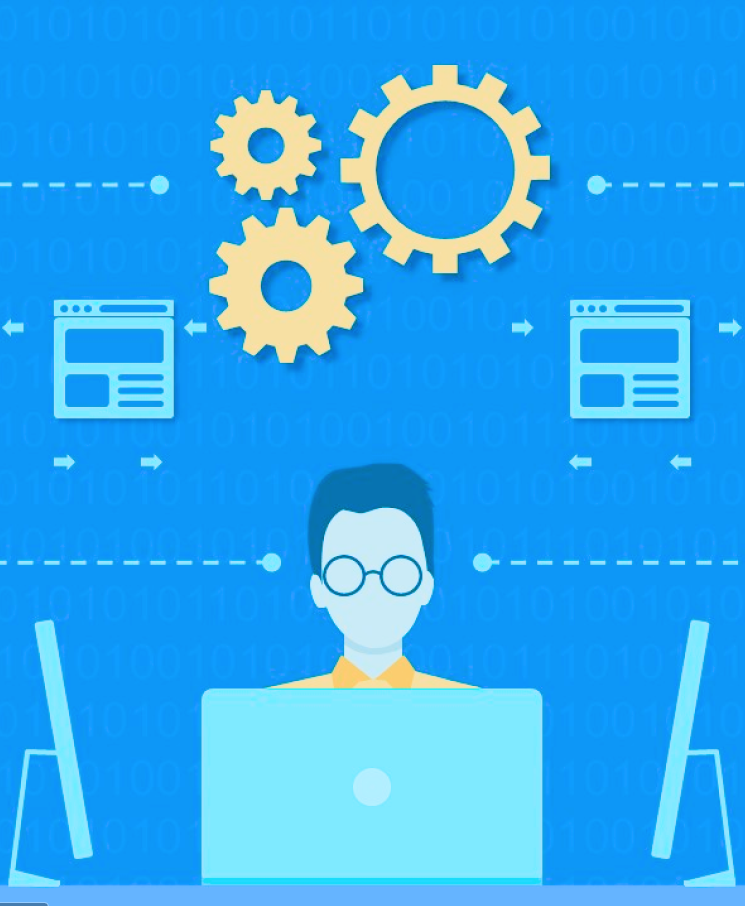
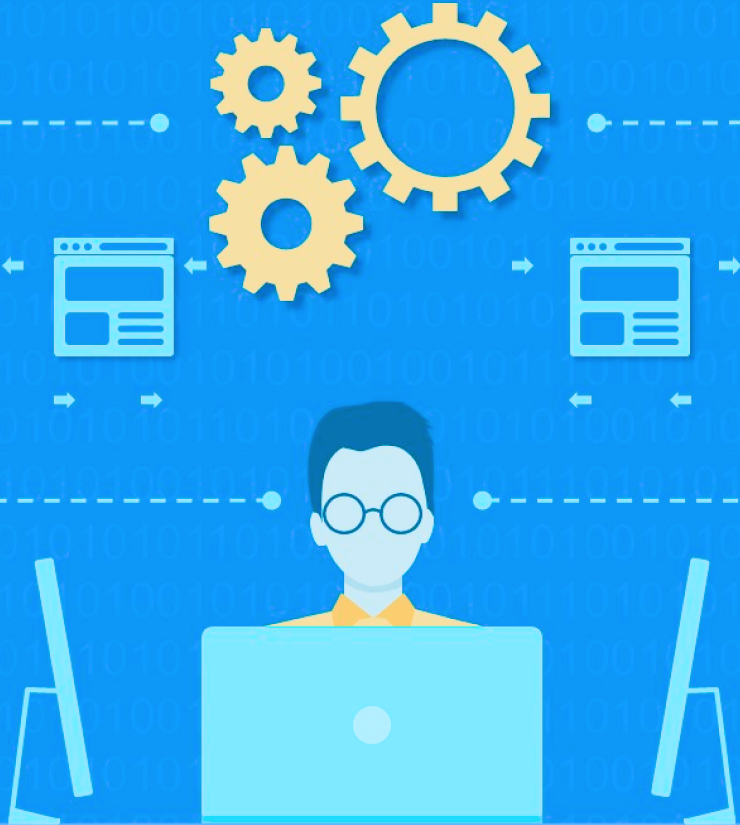
pic issue fixed - AR

diff --git a/css/signup.css b/css/signup.css
@@ -60,7 +60,6 @@ input[type="text"], input[type="password"], input[type="email"] {
   padding-bottom: 30px;
   border: none;
   background-color: #ECECEC;
-  
 }
 
 .place-holder .logo{

diff --git a/signup.php b/signup.php
@@ -15,7 +15,7 @@
 <body>
   <section class="content">
     <div class="img-container">
-      <img src="/img/img3.png" alt="">
+      <img src="img/img3.png" alt="">
     </div>
     <div class="login-container">
       <div class="login-form">
@@ -25,66 +25,66 @@
           <div class="container">
             <div class="place-holder">
               <div class="logo">
-                <img src="/img/person_avatar_account_user_icon_191606.png" alt="">
+                <img src="img/person_avatar_account_user_icon_191606.png" alt="">
               </div>
               <div>
                 <label for="fullname"><b>Full Name</b></label><br>
                 <!-- fullname -->
-                <input type="text" placeholder="" name="fullname" required>
+                <input type="text" placeholder="enter your full name" name="fullname" required>
               </div>
               
             </div>
             <div class="place-holder">
               <div class="logo">
-                <img src="/img/person_avatar_account_user_icon_191606.png" alt="">
+                <img src="img/person_avatar_account_user_icon_191606.png" alt="">
               </div>
               <div>
                 <label for="username"><b>Username</b></label><br>
                 <!-- username -->
-                <input type="text" placeholder="" name="username" required>
+                <input type="text" placeholder="enter your user-name" name="username" required>
               </div>
               
             </div>
             <div class="place-holder">
               <div class="logo">
-                <img src="/img/key_security_icon_195229.png" alt="" class="key">
+                <img src="img/key_security_icon_195229.png" alt="" class="key">
               </div>
               <div>
                 <label for="password"><b>Password</b></label><br>
                 <!-- password -->
-                <input type="password" placeholder="" name="password" required>
+                <input type="password" placeholder="enter your password" name="password" required>
               </div>
             </div>
             <div class="place-holder">
               <div class="logo">
-                <img src="/img/1904660-email-envelope-letter-mail-message-post-send_122510.png" alt="">
+                <img src="img/1904660-email-envelope-letter-mail-message-post-send_122510.png" alt="">
               </div>
               <div>
                 <label for="mail"><b>Email</b></label><br>
                 <!-- mail -->
-                <input type="email" placeholder="" name="mail" required>
+                <input type="email" placeholder="example@mail.com" name="mail" required>
               </div>
               
             </div>
             <div class="place-holder">
               <div class="logo">
-                <img src="/img/age_theapplication_3019.png" alt="">
+                <img src="img/age_theapplication_3019.png" alt="">
               </div>
               <div>
                 <label for="uage"><b>Age</b></label><br>
                 <!-- age -->
-                <input type="text" placeholder="" name="age" required>
+                <input type="text" placeholder="enter your age" name="age" required>
               </div>
               
             </div>
             <div class="place-holder">
               <div class="logo">
-                <img src="/img/3586376-book-education-learning-teacher_107951.png" alt="">
+                <img src="img/3586376-book-education-learning-teacher_107951.png" alt="">
               </div>
               <div>
                 <label for="uedu"><b>Education</b></label><br>
                 <!-- education -->
-                <input type="text" placeholder="" name="education" required>
+                <input type="text" placeholder="enter your educational qualification" name="education" required>
               </div>
               
             </div>
@@ -98,4 +98,3 @@
   </section>
 </body>
 </html>
-

diff --git a/login.php b/login.php
@@ -15,7 +15,7 @@
 <body>
   <section class="content">
     <div class="img-container">
-      <img src="/img/img2.png" alt="">
+      <img src="img/img2.png" alt="">
     </div>
     <div class="login-container">
       <div class="title">
@@ -28,7 +28,7 @@
           <div class="container">
             <div class="place-holder">
               <div class="logo">
-                <img src="/img/person_avatar_account_user_icon_191606.png" alt="">
+                <img src="img/person_avatar_account_user_icon_191606.png" alt="">
               </div>
               <div>
                 <label for="uname"><b>Username</b></label><br>
@@ -39,7 +39,7 @@
             </div>
             <div class="place-holder">
               <div class="logo">
-                <img src="/img/key_security_icon_195229.png" alt="" class="key">
+                <img src="img/key_security_icon_195229.png" alt="" class="key">
               </div>
               <div>
                 <label for="psw"><b>Password</b></label><br>
@@ -60,7 +60,7 @@
 
       </div>
       <div class="reg">
-        <p>Don’t have an account? <a href="signup.html">Register Now</a></p>
+        <p>Don’t have an account? <a href="signup.php">Register Now</a></p>
       </div>
     </div>
   </section>

diff --git a/index.php b/index.php
@@ -29,7 +29,7 @@
     <div class="left-col">
       <h2>Hello There!</h2>
       <p>having problem understanding a topic? looking for a way to start new courses? don’t worry!! we’ll guide you to your desire contents. Edification is a non-profit system where you can learn and contribute to any computer-science releted courses</p>
-      <button class="get-started-btn"><img src="/img/play-fill.png" alt=""> Get Started</button>
+      <button class="get-started-btn"><img src="img/play-fill.png" alt=""> Get Started</button>
     </div>
     <div class="right-col">
 

diff --git a/signup_action_page.php b/signup_action_page.php
@@ -1,5 +1,6 @@
 <?php
     require('connection.php');
+    
     // When form submitted, insert values into the database.
     if (isset($_REQUEST['username'])) {
         // removes backslashes
